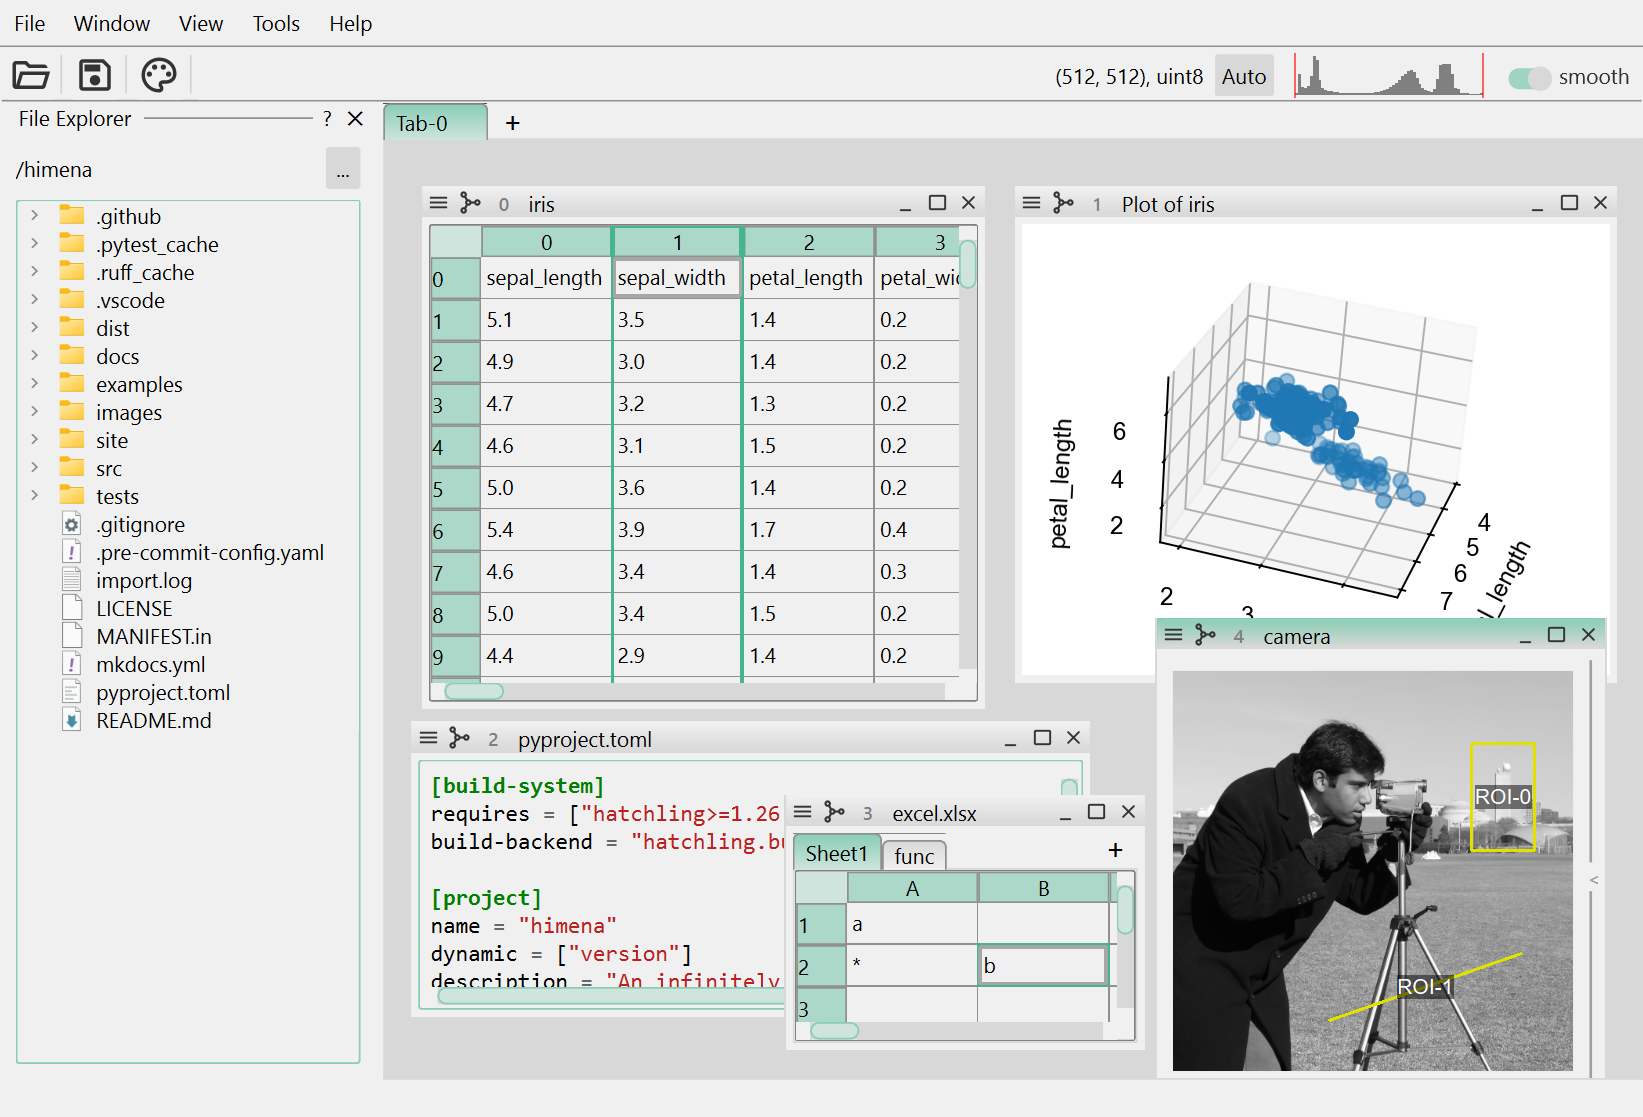
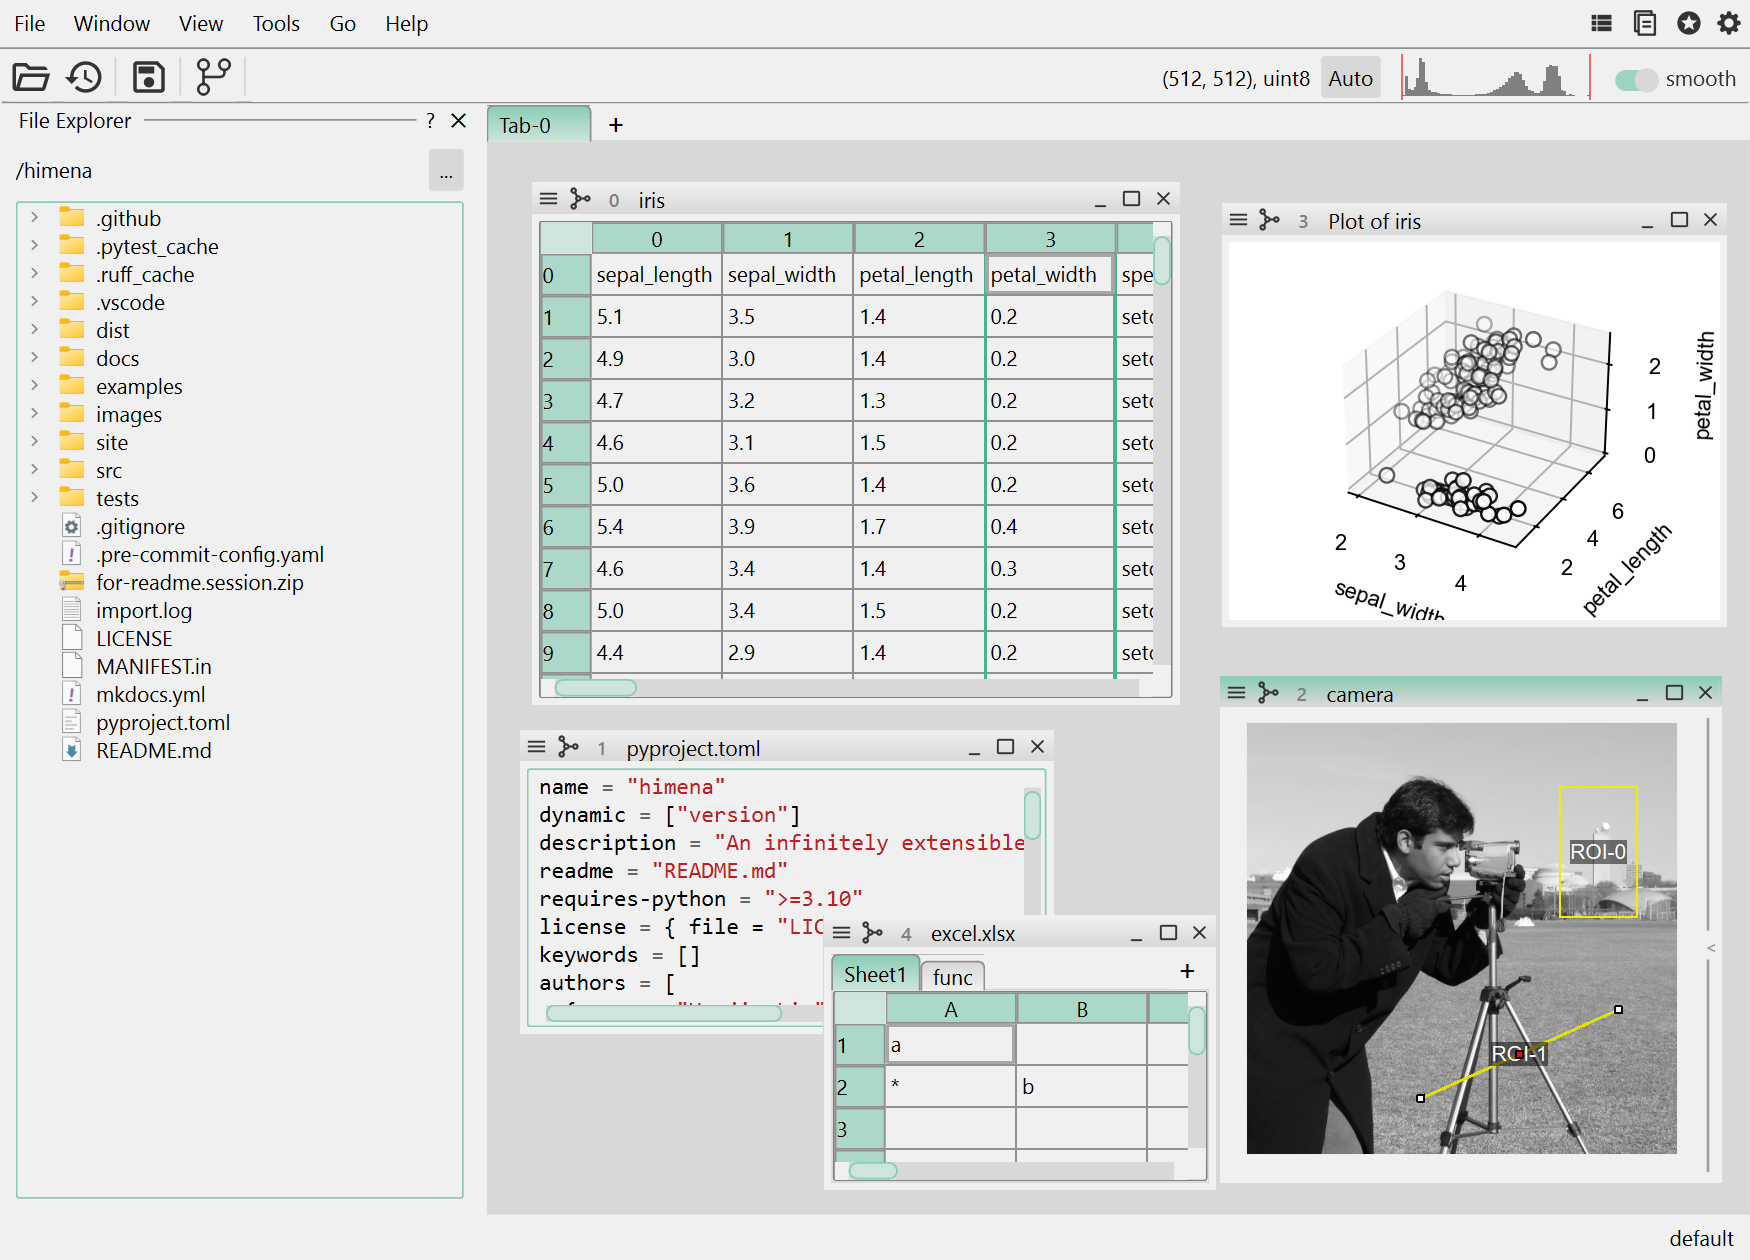
update test

diff --git a/src/himena/plugins/widget_plugins.py b/src/himena/plugins/widget_plugins.py
@@ -317,18 +317,18 @@ def update_config_context(
     plugin_config = reg._plugin_default_configs[_plugin_id]
     if not isinstance(plugin_config.config, _config_class):
         raise TypeError(
-            f"Plugin ID {plugin_id} does not match the config class {config_class}."
+            f"Plugin ID {_plugin_id} does not match the config class {config_class}."
         )
     cur_config = plugin_config.config
     yield cur_config
     prof = ui.app_profile
     all_configs = prof.plugin_configs.copy()
 
-    cfg_dict = all_configs[plugin_id] = plugin_config.as_dict()
+    cfg_dict = all_configs[_plugin_id] = plugin_config.as_dict()
     prof.with_plugin_configs(all_configs).save()
 
     # update existing dock widgets with the new config
-    if update_widget and (cb := WidgetCallbackBase.instance_for_command_id(plugin_id)):
+    if update_widget and (cb := WidgetCallbackBase.instance_for_command_id(_plugin_id)):
         params = {}
         for key, opt in cfg_dict.items():
             params[key] = opt["value"]

diff --git a/src/himena_builtins/_tests/test_favorites.py b/src/himena_builtins/_tests/test_favorites.py
@@ -1,7 +1,9 @@
-from himena import MainWindow
-from himena_builtins.qt.favorites._widget import QFavoriteCommands, QCommandPushButton
 from qtpy import QtCore
 from pytestqt.qtbot import QtBot
+from himena import MainWindow
+from himena.plugins import update_config_context
+from himena_builtins.qt.favorites._widget import QFavoriteCommands, QCommandPushButton
+from himena_builtins.qt.favorites import FavoriteCommandsConfig
 
 def test_favorite_commands_widget(qtbot: QtBot, himena_ui: MainWindow):
     widget = QFavoriteCommands(himena_ui)
@@ -25,3 +27,6 @@ def test_favorite_commands_widget(qtbot: QtBot, himena_ui: MainWindow):
     btn._make_context_menu()
     cfg = himena_ui.app_profile.plugin_configs["builtins:favorite-commands"]
     assert cfg["commands"]["value"] == ["new-tab"]
+
+    with update_config_context(FavoriteCommandsConfig, update_widget=True) as cfg:
+        cfg.commands = ["close-tab"]

diff --git a/src/himena/qt/_qstatusbar.py b/src/himena/qt/_qstatusbar.py
@@ -10,8 +10,6 @@ if TYPE_CHECKING:
 
 class QStatusBar(QtW.QStatusBar):
     def __init__(self, parent: QMainWindow):
-        from himena import __version__
-
         super().__init__(parent)
         self._corner_widget = QtW.QWidget(self)
         layout = QtW.QHBoxLayout(self._corner_widget)
@@ -23,9 +21,6 @@ class QStatusBar(QtW.QStatusBar):
         self._profile_btn.setCursor(QtCore.Qt.CursorShape.PointingHandCursor)
         self._profile_btn.clicked.connect(self._open_profile_info)
         layout.addWidget(self._profile_btn)
-        version_label = QtW.QLabel(f"v{__version__}")
-        version_label.setToolTip("Himena version")
-        layout.addWidget(version_label)
 
         self.layout().setAlignment(QtCore.Qt.AlignmentFlag.AlignRight)
         self.layout().addWidget(self._corner_widget)

diff --git a/tests/test_builtin_widgets.py b/tests/test_builtin_widgets.py
@@ -11,6 +11,10 @@ def test_command_added(himena_ui: MainWindow):
     himena_ui.exec_action("new-tab")
     assert history_widget._command_list.model().rowCount() == 1
     himena_ui.exec_action("builtins:new-text")
+    widget = history_widget._command_list.indexWidget(
+        history_widget._command_list.model().index(0, 0)
+    )
+    widget._make_drag()
 
 def test_table_selection(himena_ui: MainWindow):
     from himena.qt.magicgui import SelectionEdit
